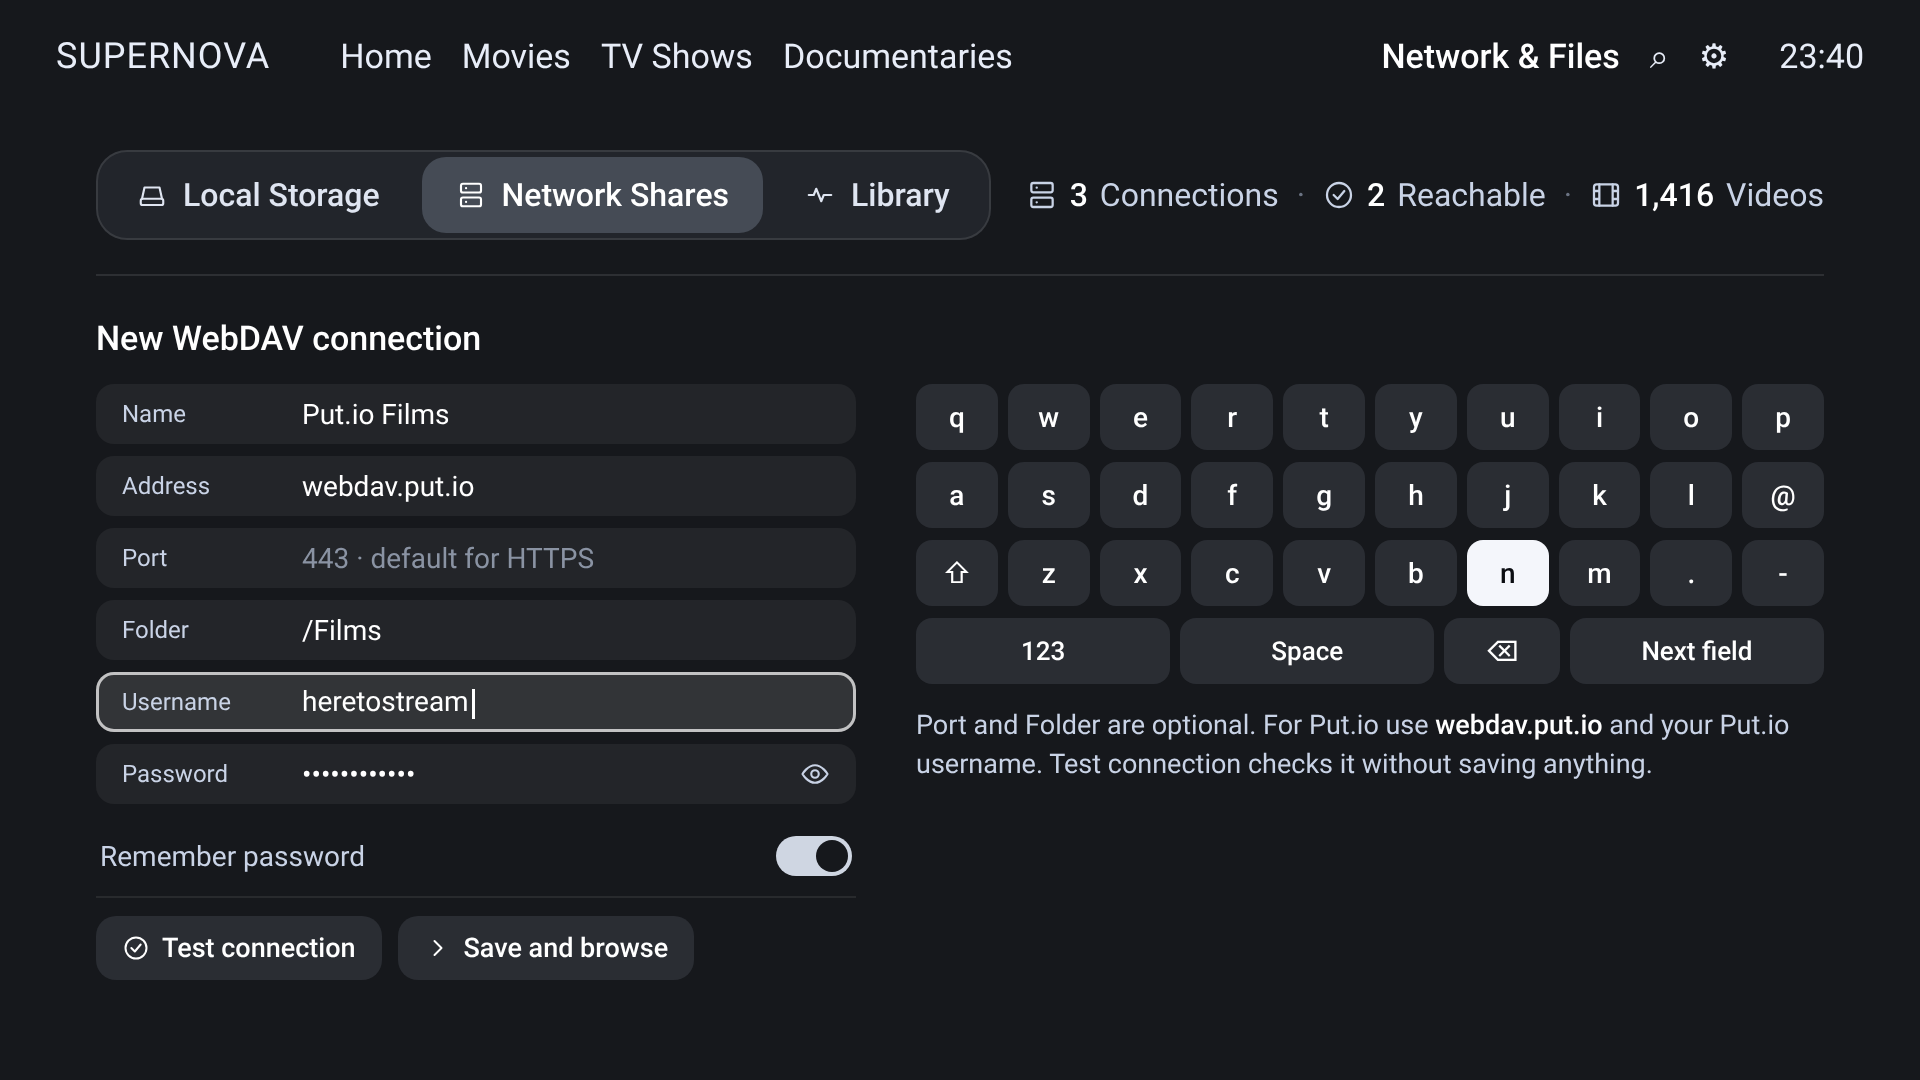
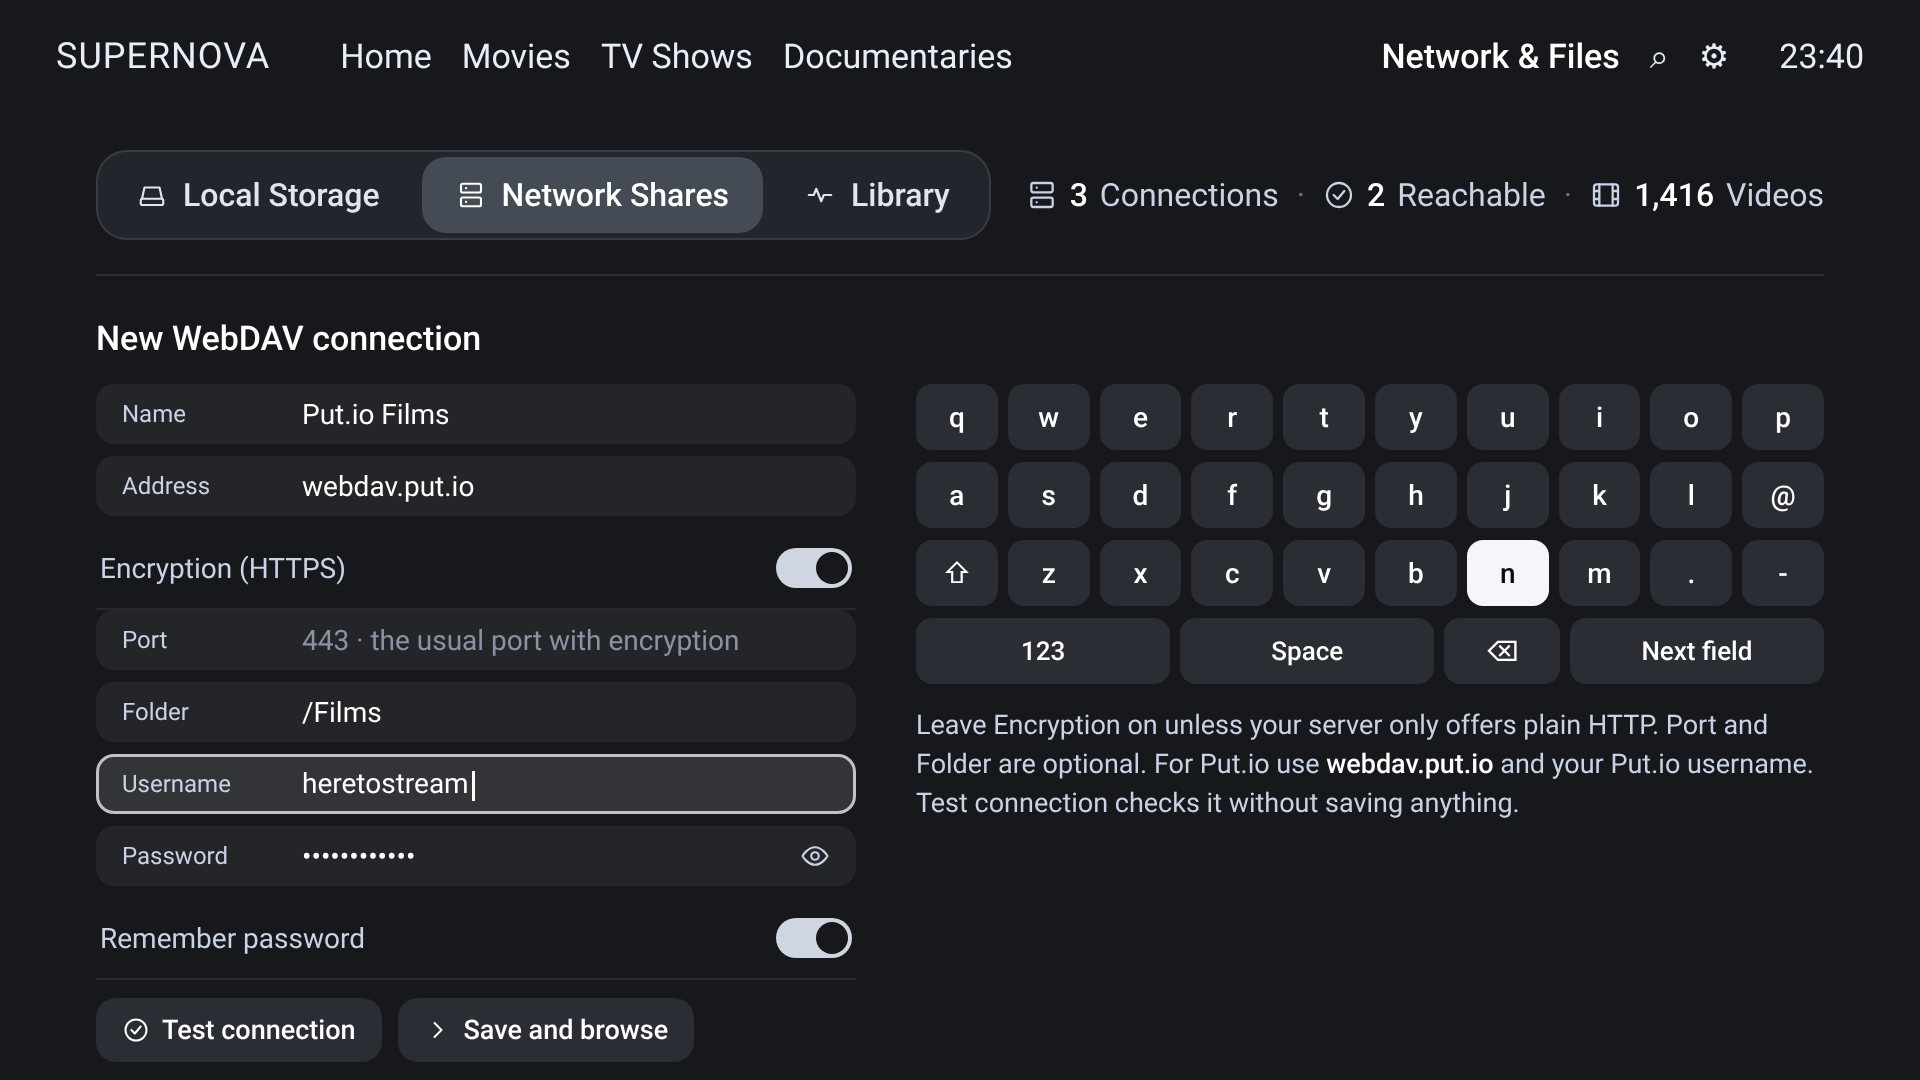
Exploring: Network & Files tabs v8 (menu edge, four connection types with encryption switches, scan choices, Library Health pages)
Claude-Session: https://claude.ai/code/session_01FtDZqamY6pdaUKwc7fqgiA

diff --git a/docs/design/proposals/network-files-tabs/render.js b/docs/design/proposals/network-files-tabs/render.js
@@ -41,6 +41,7 @@ const I = {
   disk: '<ellipse cx="12" cy="6" rx="8" ry="3"/><path d="M4 6v12c0 1.7 3.6 3 8 3s8-1.3 8-3V6M4 12c0 1.7 3.6 3 8 3s8-1.3 8-3"/>',
   time: '<circle cx="12" cy="12" r="9"/><path d="M12 7v5l3 2"/>',
   history: '<path d="M4 12a8 8 0 1 0 2.3-5.7L4 8.5"/><path d="M4 4v4.5h4.5"/>',
+  source: '<path d="M4 7h16M4 12h16M4 17h10"/>',
   eye: '<path d="M2 12s4-7 10-7 10 7 10 7-4 7-10 7S2 12 2 12z"/><circle cx="12" cy="12" r="3"/>',
 };
 const head = (open, focusTab, summary) => `<div class="tabrow"><div class="tray">${[['local', 'Local Storage'], ['shares', 'Network Shares'], ['library', 'Library']]
@@ -70,14 +71,16 @@ ${row('usb', 'Backup #1', 'SanDisk USB drive · 1,203 videos · 1.1 TB free of 2
 const localPage = local.split('<div class="rt">').join('<div class="rt grow">');
 const crumbrow = (trail, tools) => `<div class="crumbrow"><div class="crumbs">${trail.map((t, i) => i === trail.length - 1 ? `<span>${t}</span>` : `${t} <b>›</b> `).join('')}</div>${tools || ''}</div>`;
 const tools = gridOn => `<div class="tools"><span class="b">${icon(gridOn ? I.list : I.grid, 26)}${gridOn ? 'List' : 'Grid'}</span><span class="b">${icon(I.sort, 26)}Sort: Name</span><span class="b">${icon(I.filter, 26)}Videos only</span></div>`;
+let FOLDER_FOCUS = 2;
 const fileacts = [['play', 'Play'], ['info', 'Details'], ['check', 'Mark as watched'], ['exclude', 'Exclude']];
 const files = [['folder', '4K', 'Folder · 86 videos', 'in'], ['folder', 'Old rips', 'Folder · 31 videos', 'out'],
   ['film', 'Conclave (2024).mkv', '2024 · 14.2 GB', 'in'], ['film', 'home-video-2019.mp4', '1.1 GB', 'none'],
   ['film', 'Nosferatu (2024).mkv', '2024 · 18.9 GB', 'in']];
-const folder = `${nav}<div class="page">${head('local', '', [['412', 'videos'], ['398', 'in library'], ['14', 'not added']])}
+const folderAt = f => { FOLDER_FOCUS = f; return `${nav}<div class="page">${head('local', '', [['412', 'videos'], ['398', 'in library'], ['14', 'not added']])}
 ${crumbrow(['Backup #1', 'Films'], tools(false))}
-${files.map(([ic, n, l, st], i) => row(ic, n, l, st, fileacts, i === 2)).join('')}
-</div>`;
+${files.map(([ic, n, l, st], i) => row(ic, n, l, st, fileacts, i === FOLDER_FOCUS)).join('')}
+</div>`; };
+const folder = folderAt(2);
 
 const cards = [['4K', '86 videos', 'in', 'mosaic'], ['Old rips', '31 videos', 'out', 'plain'], ['Conclave', '2024', 'in', 'art'],
   ['home-video-2019', '1.1 GB', 'none', 'still'], ['Nosferatu', '2024', 'in', 'art'], ['Flow', '2024', 'in', 'art'],
@@ -100,7 +103,7 @@ ${row('shares', 'Living-room NAS', 'SMB · 512 videos in your library', 'up', [[
 ${row('pc', 'Office PC', 'SFTP · last seen yesterday', 'down', [['test', 'Try again'], ['edit', 'Edit'], ['remove', 'Remove']], focusIdx === 2)}
 <div class="row add ${focusIdx === 3 ? 'focus' : ''}"><span class="ri">${icon(I.plus, 40)}</span><div class="rt"><div class="rn">Add a connection</div>
 <div class="rl">${focusIdx === 3 ? 'Choose what you are connecting to' : 'Computer, NAS, WebDAV, SFTP or FTP'}</div></div><div class="rs"></div>
-<div class="ra wide">${focusIdx === 3 ? acts([['pc', 'Computer or NAS'], ['globe', 'WebDAV'], ['lock', 'SFTP'], ['more', 'More']]) : `<span class="rc">${icon(I.chev, 30)}</span>`}</div></div>
+<div class="ra wide">${focusIdx === 3 ? acts([['pc', 'Computer or NAS'], ['globe', 'WebDAV'], ['lock', 'SFTP'], ['source', 'FTP']]) : `<span class="rc">${icon(I.chev, 30)}</span>`}</div></div>
 <div class="sec">Found on your network</div>
 ${row('pc', 'DESKTOP-7Q', 'SMB · Windows computer', 'newf', [['plus', 'Add']], focusIdx === 4)}
 </div>`;
@@ -121,22 +124,26 @@ const keyrows = [['q', 'w', 'e', 'r', 't', 'y', 'u', 'i', 'o', 'p'], ['a', 's', 
 const form = `${nav}<div class="page">${head('shares', '', [['3', 'connections'], ['2', 'reachable'], ['1,416', 'videos']])}
 ${crumbrow(['New WebDAV connection'])}
 <div class="formgrid"><div class="col">
-${fieldF('Name', 'Put.io Films')}${fieldF('Address', 'webdav.put.io')}${fieldF('Port', '443 · default for HTTPS', true)}
+${fieldF('Name', 'Put.io Films')}${fieldF('Address', 'webdav.put.io')}<div class="kv"><span>Encryption (HTTPS)</span><span class="sw on"><i></i></span></div>${fieldF('Port', '443 · the usual port with encryption', true)}
 ${fieldF('Folder', '/Films')}${fieldF('Username', 'heretostream<i class="caret"></i>', false, false, true)}${fieldF('Password', '••••••••••••', false, true)}
 <div class="kv"><span>Remember password</span><span class="sw on"><i></i></span></div>
 <div class="btnrow"><span class="b">${icon(I.test, 28)}Test connection</span><span class="b">${icon(I.chev, 28)}Save and browse</span></div>
 </div><div class="col"><div class="kb">${keyrows.map(row => `<div class="krow">${row.map(k => `<span class="key ${k.length > 1 ? 'wide' : ''} ${k === 'n' ? 'focus' : ''}">${k}</span>`).join('')}</div>`).join('')}</div>
-<div class="rl p">Port and Folder are optional. For Put.io use <b>webdav.put.io</b> and your Put.io username.
+<div class="rl p">Leave Encryption on unless your server only offers plain HTTP. Port and Folder are optional. For Put.io use <b>webdav.put.io</b> and your Put.io username.
 Test connection checks it without saving anything.</div></div>
 </div></div>`;
-const menuHtml = '<div class="cmenu">' +
-  [['pc', 'FTP', true], ['lock', 'FTP with TLS', false], ['globe', 'WebDAV without encryption', false]]
-    .map(([ic, n, f]) => `<div class="ci ${f ? 'focus' : ''}">${icon(I[ic], 30)}<span>${n}</span></div>`).join('') + '</div>';
-const more = shares(3).replace('class="row add focus"', 'class="row add open"')
-  .replace('</div></div>\n<div class="sec">Found on your network</div>', `</div>${menuHtml}</div>\n<div class="sec">Found on your network</div>`);
+const sortMenu = '<div class="cmenu down">' + [['Name (A–Z)', 'chosen'], ['Name (Z–A)', ''], ['Newest first', 'focus'], ['Oldest first', ''], ['Largest first', ''], ['Smallest first', '']]
+  .map(([n, k]) => `<div class="ci ${k === 'focus' ? 'focus' : ''}">${k === 'chosen' ? icon(I.check, 30) : '<i class="sp"></i>'}<span>${n}</span></div>`).join('') + '</div>';
+const sortOpen = folderAt(-1).replace(`<span class="b">${icon(I.sort, 26)}Sort: Name</span>`,
+  `<span class="b open menuhost">${icon(I.sort, 26)}Sort: Name${sortMenu}</span>`);
 
 const pill = t => `<span class="state">${t}</span>`;
 const lrow = (ic, name, line, st, actions, focus) => row(ic, name, line, '', actions, focus).replace('<div class="rs"></div>', `<div class="rs">${pill(st)}</div>`);
+const choiceRow = (ic, name, line, options, chosen, focus) => `<div class="row ${focus ? 'focus' : ''}"><span class="ri">${icon(I[ic], 40)}</span>
+  <div class="rt grow"><div class="rn">${name}</div><div class="rl">${line}</div></div>
+  <span class="chips">${options.map(o => `<i class="${o === chosen ? 'on' : ''}">${o}</i>`).join('')}</span></div>`;
+const switchRow = (ic, name, line, on, focus) => `<div class="row ${focus ? 'focus' : ''}"><span class="ri">${icon(I[ic], 40)}</span>
+  <div class="rt grow"><div class="rn">${name}</div><div class="rl">${line}</div></div><span class="sw ${on ? 'on' : ''}"><i></i></span></div>`;
 const libRows = focus => `
 <div class="sec first">Scanning</div>
 ${lrow('scan', 'Scan now', '12 min ago · 3 new, 1 updated', 'Up to date', [['scan', 'Scan now'], ['history', 'Scan one source']], focus === 0)}
@@ -145,12 +152,28 @@ ${lrow('folder', 'Missing files', 'In your library but no longer found', '3 file
 ${lrow('film', "Couldn't be read", 'Files Supernova could not open', '2 files', [['open', 'Review']], focus === 2)}
 ${lrow('library', 'Not matched', 'Videos without a film or show', '14 videos', [['open', 'Review'], ['search', 'Fix matches']], focus === 3)}
 <div class="sec">Scan settings</div>
-${lrow('time', 'Automatic scan', 'Checks every source for new videos', 'Every hour', null, focus === 4)}
-${lrow('local', 'When Supernova opens', 'Only if the last scan is over an hour old', 'On', null, focus === 5)}
+${choiceRow('time', 'Automatic scan', 'Checks every source for new videos', ['Off', 'Hourly', '2 hours', '6 hours', 'Daily'], 'Hourly', focus === 4)}
+${switchRow('local', 'When Supernova opens', 'Scans if the last scan is over an hour old', true, focus === 5)}
 <div class="sec">Recent scans</div>
 ${lrow('cloud', 'Put.io › Films', 'Today 23:28 · 3 new, 1 updated', 'Finished', null, focus === 6)}
 ${lrow('shares', 'Living-room NAS', 'Today 22:28 · 48 s · no changes', 'Finished', null, focus === 7)}
 ${lrow('usb', 'Backup #1', 'Today 21:28 · the drive was removed', 'Stopped', null, focus === 8)}`;
+const healthPage = (title, summary, rows) => `${nav}<div class="page">${head('library', '', [['1,808', 'videos'], ['5', 'to check'], ['3', 'sources']])}
+${crumbrow([title])}${rows}</div>`;
+const missing = healthPage('Missing files', '', `
+${lrow('film', 'Conclave (2024)', 'Living-room NAS › Films · since 3 Nov', 'Missing', [['search', 'Find it again'], ['remove', 'Remove']], true)}
+${lrow('film', 'The Bear · S3 E4', 'Backup #1 › TV · since 5 Nov', 'Missing', null, false)}
+${lrow('film', 'Arrival (2016)', 'Backup #1 › Films · since 5 Nov', 'Missing', null, false)}
+<div class="note2">Find it again searches the same place for the same file and links it back, keeping where you stopped and what you've watched. Remove takes it out of your library only.</div>`);
+const unreadable = healthPage("Couldn't be read", '', `
+${lrow('film', 'holiday-2018.avi', 'Backup #1 › Home videos · 2.3 GB', 'Damaged', [['history', 'Try again'], ['exclude', 'Exclude']], true)}
+${lrow('film', 'concert.ts', 'Put.io › Music · 6.1 GB', 'Timed out', null, false)}
+<div class="note2">Try again reads the file once more. Exclude stops Supernova looking at it; the file itself is left alone.</div>`);
+const unmatched = healthPage('Not matched', '', `
+${lrow('film', 'home-video-2019.mp4', 'Backup #1 › Films · no film or show found', 'No match', [['search', 'Fix match'], ['exclude', 'Not a film']], true)}
+${lrow('film', 'Pressure.2026.2160p.mkv', 'Living-room NAS › Films · several matches', 'Possible', null, false)}
+${lrow('film', 'S01E01.mkv', 'Put.io › TV · name too short', 'No match', null, false)}
+<div class="note2">Fix match opens the search panel with the name filled in. "Not a film" keeps a personal video in your files but out of Movies and TV Shows.</div>`);
 const library = `${nav}<div class="page">${head('library', '', [['1,808', 'videos'], ['5', 'to check'], ['3', 'sources']])}
 <div class="libclip"><div class="libscroll">${libRows(0)}</div></div></div>`;
 const libraryLower = `${nav}<div class="page">${head('library', '', [['1,808', 'videos'], ['5', 'to check'], ['3', 'sources']])}
@@ -213,12 +236,17 @@ body{width:1920px;height:1080px;overflow:hidden;font-family:R;color:#fff;backgro
 .prow.focus .rl,.prow.focus .ri{color:#3A4256}.prow:first-of-type{margin-top:34px}
 .row.open{position:relative;background:rgba(255,255,255,.06);border-radius:24px;box-shadow:none}
 .row.open .ab{background:#2a2d33;color:#fff}.row.open .ab:last-child{background:#454B55}
-.cmenu{position:absolute;right:30px;bottom:calc(100% + 10px);width:520px;background:rgba(22,24,28,.97);border-radius:26px;padding:20px 18px 16px;z-index:5;box-shadow:0 20px 60px rgba(0,0,0,.5)}
+.cmenu{position:absolute;right:30px;bottom:calc(100% + 10px);border:2px solid rgba(255,255,255,.28);width:520px;background:rgba(22,24,28,.97);border-radius:26px;padding:20px 18px 16px;z-index:5;box-shadow:0 20px 60px rgba(0,0,0,.5)}
 .ch{font-size:24px;color:#B7BFCC;padding:0 14px 10px}
 .ci{display:flex;align-items:center;gap:18px;height:68px;padding:0 18px;border-radius:18px;font-size:29px;font-weight:500}
 .ci.focus{background:#F4F6FB;color:#0B0D12}
 .libclip{position:absolute;left:0;right:0;top:136px;bottom:0;overflow:hidden}
 .summary span,.tab{white-space:nowrap}
+.cmenu.down{bottom:auto;top:calc(100% + 12px);right:0;width:440px;text-align:left}.b.menuhost{position:relative;background:#454B55}
+.ci .sp{display:inline-block;width:30px}
+.chips{display:flex;gap:6px;font-size:28px}.chips i{font-style:normal;padding:10px 20px;border-radius:14px;color:#dfe5f1}
+.chips i.on{background:#454B55;color:#fff}.row.focus .chips i{color:#3A4256}.row.focus .chips i.on{background:#0B0D12;color:#fff}
+.note2{margin-top:30px;font-size:26px;color:#9aa3b2;line-height:1.45;max-width:1400px}
 .sw{width:76px;height:40px;border-radius:20px;background:#3a3f48;position:relative}.sw i{position:absolute;top:4px;left:4px;width:32px;height:32px;border-radius:50%;background:#fff}.sw.on{background:#cfd6e2}.sw.on i{left:40px;background:#16181C}`;
 (async () => {
   const browser = await chromium.launch();
@@ -226,7 +254,7 @@ body{width:1920px;height:1080px;overflow:hidden;font-family:R;color:#fff;backgro
   const pages = [['01-local-storage.png', localPage], ['02-inside-a-folder.png', folder], ['03-folder-grid.png', gridv],
     ['04-network-shares.png', shares(1)], ['05-network-shares-unreachable.png', shares(2)], ['06-network-shares-add.png', shares(3)],
     ['07-add-connection.png', types], ['08-add-connection-form.png', form], ['09-library.png', library], ['09b-library-lower.png', libraryLower],
-    ['11-add-connection-more.png', more]];
+    ['11-sort-menu.png', sortOpen], ['12-missing-files.png', missing], ['13-could-not-read.png', unreadable], ['14-not-matched.png', unmatched]];
   for (const [f, body] of pages) {
     await tab.setContent(`<html><head><style>${css}</style></head><body>${body}</body></html>`, { waitUntil: 'load' });
     await tab.evaluate(() => document.fonts.ready);

diff --git a/docs/REVISIT_LATER.md b/docs/REVISIT_LATER.md
@@ -108,6 +108,12 @@ Items already built or scheduled are left out (see the bottom of this file).
   Library tab (v7, to discuss): one full-width list in the same row style — Scan now (Up to date; Scan now ·
   Scan one source), Library Health (Missing files, Couldn't be read, Not matched, with counts in the pills and
   Review buttons), Scan settings (Automatic scan, When Supernova opens), Recent scans (last 10). Mock-ups 09, 09b.
+  v8 (owner notes 6 Nov): pop-up menus get a faint 28% edge on the flat background (the same as card edges); Add a
+  connection shows Computer or NAS · WebDAV · SFTP · FTP (no More: WebDAV and FTP each have an Encryption switch
+  on their form, on by default); Automatic scan is an inline choice (Off · Hourly · 2 hours · 6 hours · Daily —
+  "Twice a day" dropped to keep five) and When Supernova opens a switch; Library Health opens one page per kind in
+  the Library tab (Missing files: Find it again · Remove; Couldn't be read: Try again · Exclude; Not matched: Fix
+  match · Not a film). Mock-ups 06, 08, 09b, 11–14.
 
 ## Parked (owner, 5 Nov 2026) — no version
 - **Supernova screensaver** (approved design, owner notes 0.155 #27, mock-ups `docs/design/proposals/settings/16`–`17`):
